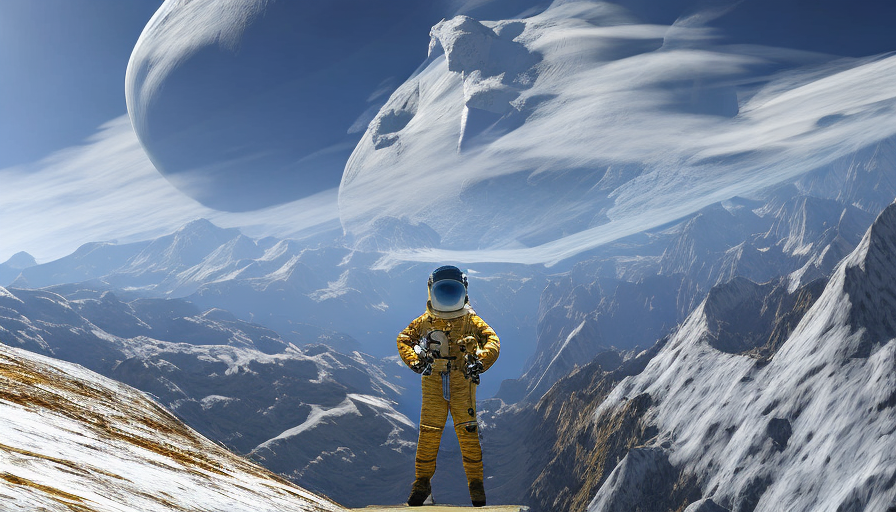
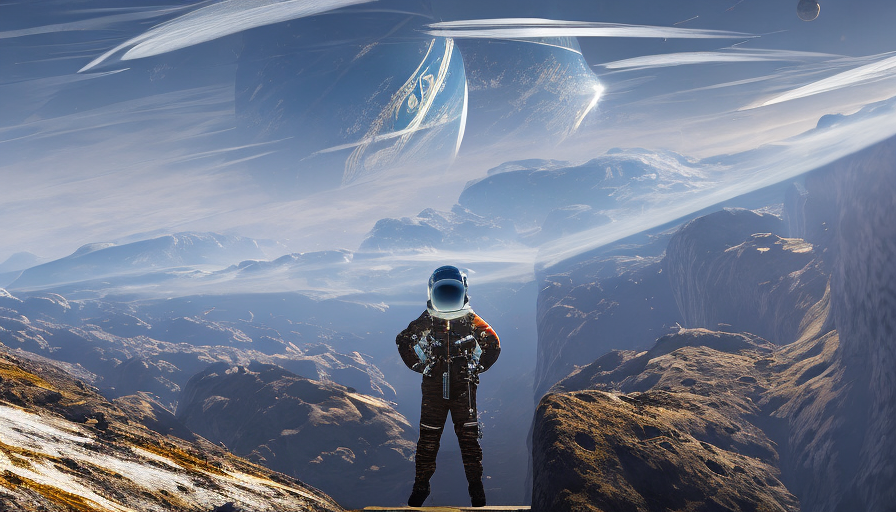
update README.md

diff --git a/cocktail/utils.py b/cocktail/utils.py
@@ -21,7 +21,7 @@ def HWC3(x):
         return y
 
 
-def resize_image(input_image, resolution):
+def resize_image(input_image, resolution, square=False):
     H, W, C = input_image.shape
     H = float(H)
     W = float(W)
@@ -30,5 +30,9 @@ def resize_image(input_image, resolution):
     W *= k
     H = int(np.round(H / 64.0)) * 64
     W = int(np.round(W / 64.0)) * 64
-    img = cv2.resize(input_image, (W, H), interpolation=cv2.INTER_LANCZOS4 if k > 1 else cv2.INTER_AREA)
+    if square:
+        S = min(H,W)
+        img = cv2.resize(input_image, (S, S), interpolation=cv2.INTER_LANCZOS4 if k > 1 else cv2.INTER_AREA)
+    else:
+        img = cv2.resize(input_image, (W, H), interpolation=cv2.INTER_LANCZOS4 if k > 1 else cv2.INTER_AREA)
     return img

diff --git a/README.md b/README.md
@@ -41,6 +41,7 @@ The parameters indicated by the yellow sections are sourced from the pre-trained
 
 ### [Examples] Cocktail for free-modality
 
+![img](readme/free.png)
 
 ### [Comparisons] single-modality
 
